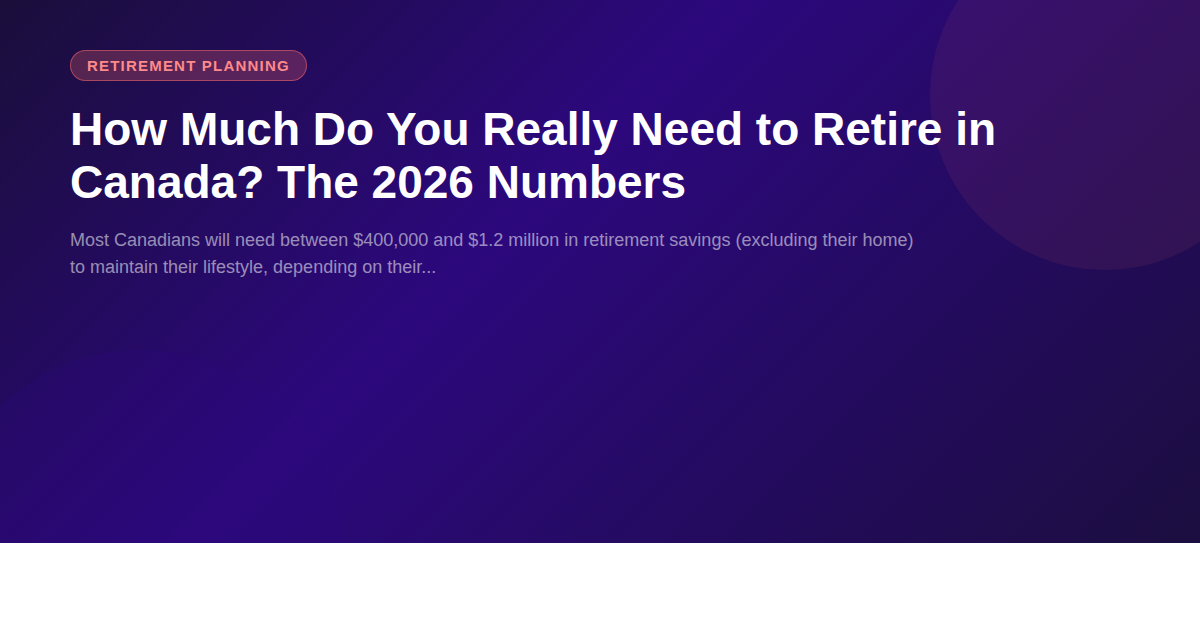
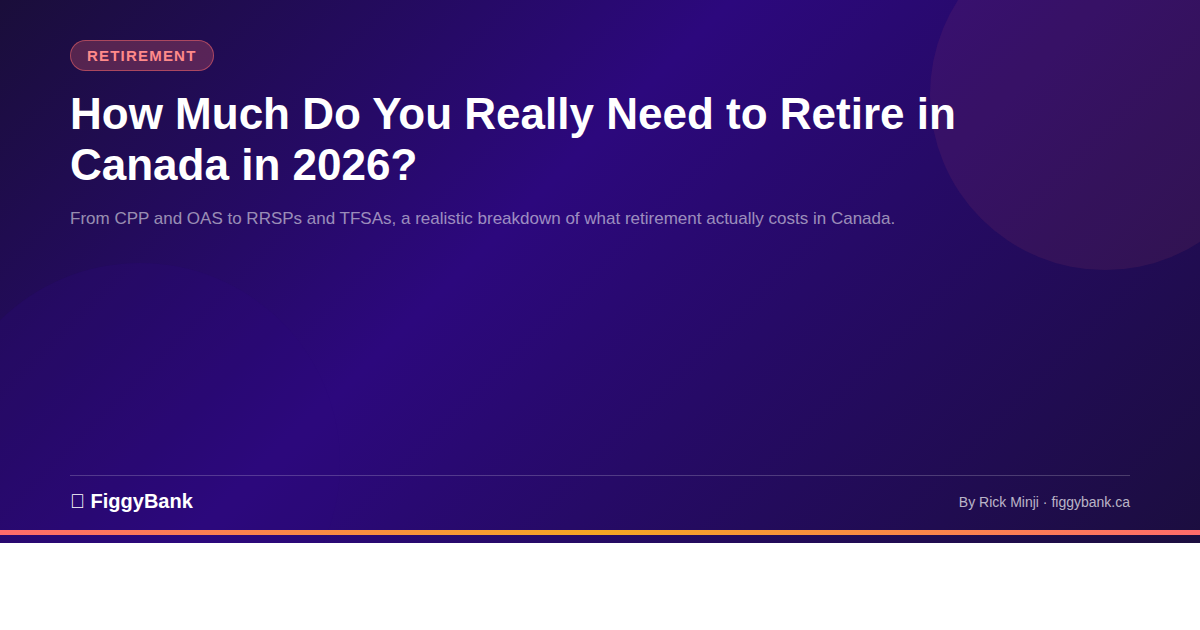
Fix OG images: branding footer now renders, update meta tags, add milestones to sitemap

Changed region(s): [[0.0617, 0.0603, 0.8325, 0.4524], [0.0, 0.7841, 1.0, 0.8746]]

diff --git a/blog/cost-raising-child-canada-2026.html b/blog/cost-raising-child-canada-2026.html
@@ -14,7 +14,7 @@
     <meta property="og:description" content="Complete breakdown of raising a child in Canada from birth to 18. Includes provincial costs, CCB benefits, and RESP strategies.">
     <meta property="og:type" content="article">
     <meta property="og:url" content="https://figgybank.ca/blog/cost-raising-child-canada-2026.html">
-    <meta property="og:image" content="https://figgybank.ca/images/blog/child-costs-canada.png">
+    <meta property="og:image" content="https://figgybank.ca/blog/og/cost-raising-child-canada-2026.png">
     
     <!-- Twitter Card -->
     <meta name="twitter:card" content="summary_large_image">
@@ -28,7 +28,7 @@
       "@type": "BlogPosting",
       "headline": "The True Cost of Raising a Child in Canada (2026 Edition)",
       "description": "Complete breakdown of raising a child in Canada from birth to 18. Includes provincial costs, CCB benefits, RESP strategies, and real cost estimates by age bracket.",
-      "image": "https://figgybank.ca/images/blog/child-costs-canada.png",
+      "image": "https://figgybank.ca/blog/og/cost-raising-child-canada-2026.png",
       "author": {
         "@type": "Organization",
         "name": "Rick Minji"

diff --git a/blog/retirement-savings-canada-2026.html b/blog/retirement-savings-canada-2026.html
@@ -8,6 +8,7 @@
     <meta name="keywords" content="retirement Canada 2026, CPP OAS GIS, retirement savings calculator, Canada pension, retirement planning, provincial retirement costs">
     <meta name="author" content="Rick Minji">
     <meta property="og:title" content="How Much Do You Really Need to Retire in Canada? The 2026 Numbers">
+    <meta property="og:image" content="https://figgybank.ca/blog/og/retirement-savings-canada-2026.png" />
     <meta property="og:description" content="Complete breakdown of retirement costs in Canada: CPP, OAS, GIS thresholds, provincial differences, and real scenarios for single and couple retirees.">
     <meta property="og:type" content="article">
     <meta property="og:url" content="https://figgybank.ca/blog/retirement-savings-canada-2026.html">
